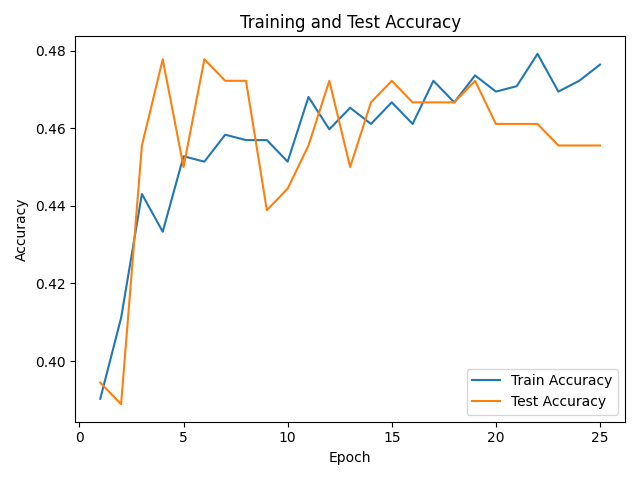
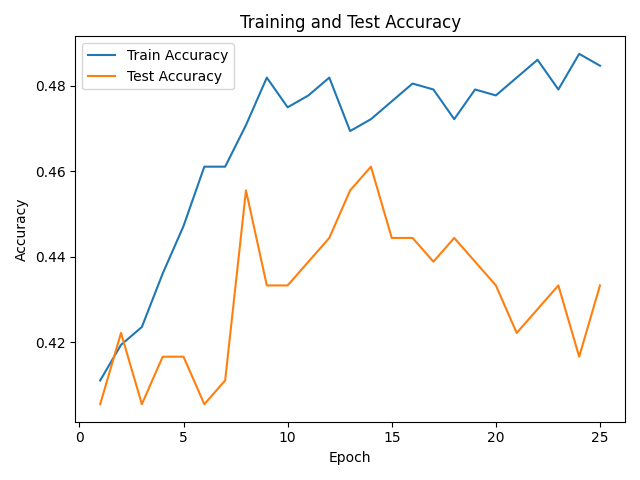
VQC V4
modified encoding to angle reuploading
Final Train Accuracy: 0.4722
Final Test Accuracy: 0.4611

diff --git a/QML/vqc.py b/QML/vqc.py
@@ -119,7 +119,7 @@ weights = pnp.array(
     np.random.normal(
         loc=0.0,
         scale=0.1,
-        size=(N_LAYERS, N_QUBITS, 2)
+        size=(N_LAYERS, N_QUBITS, 3)
     ),
     requires_grad=True
 )
